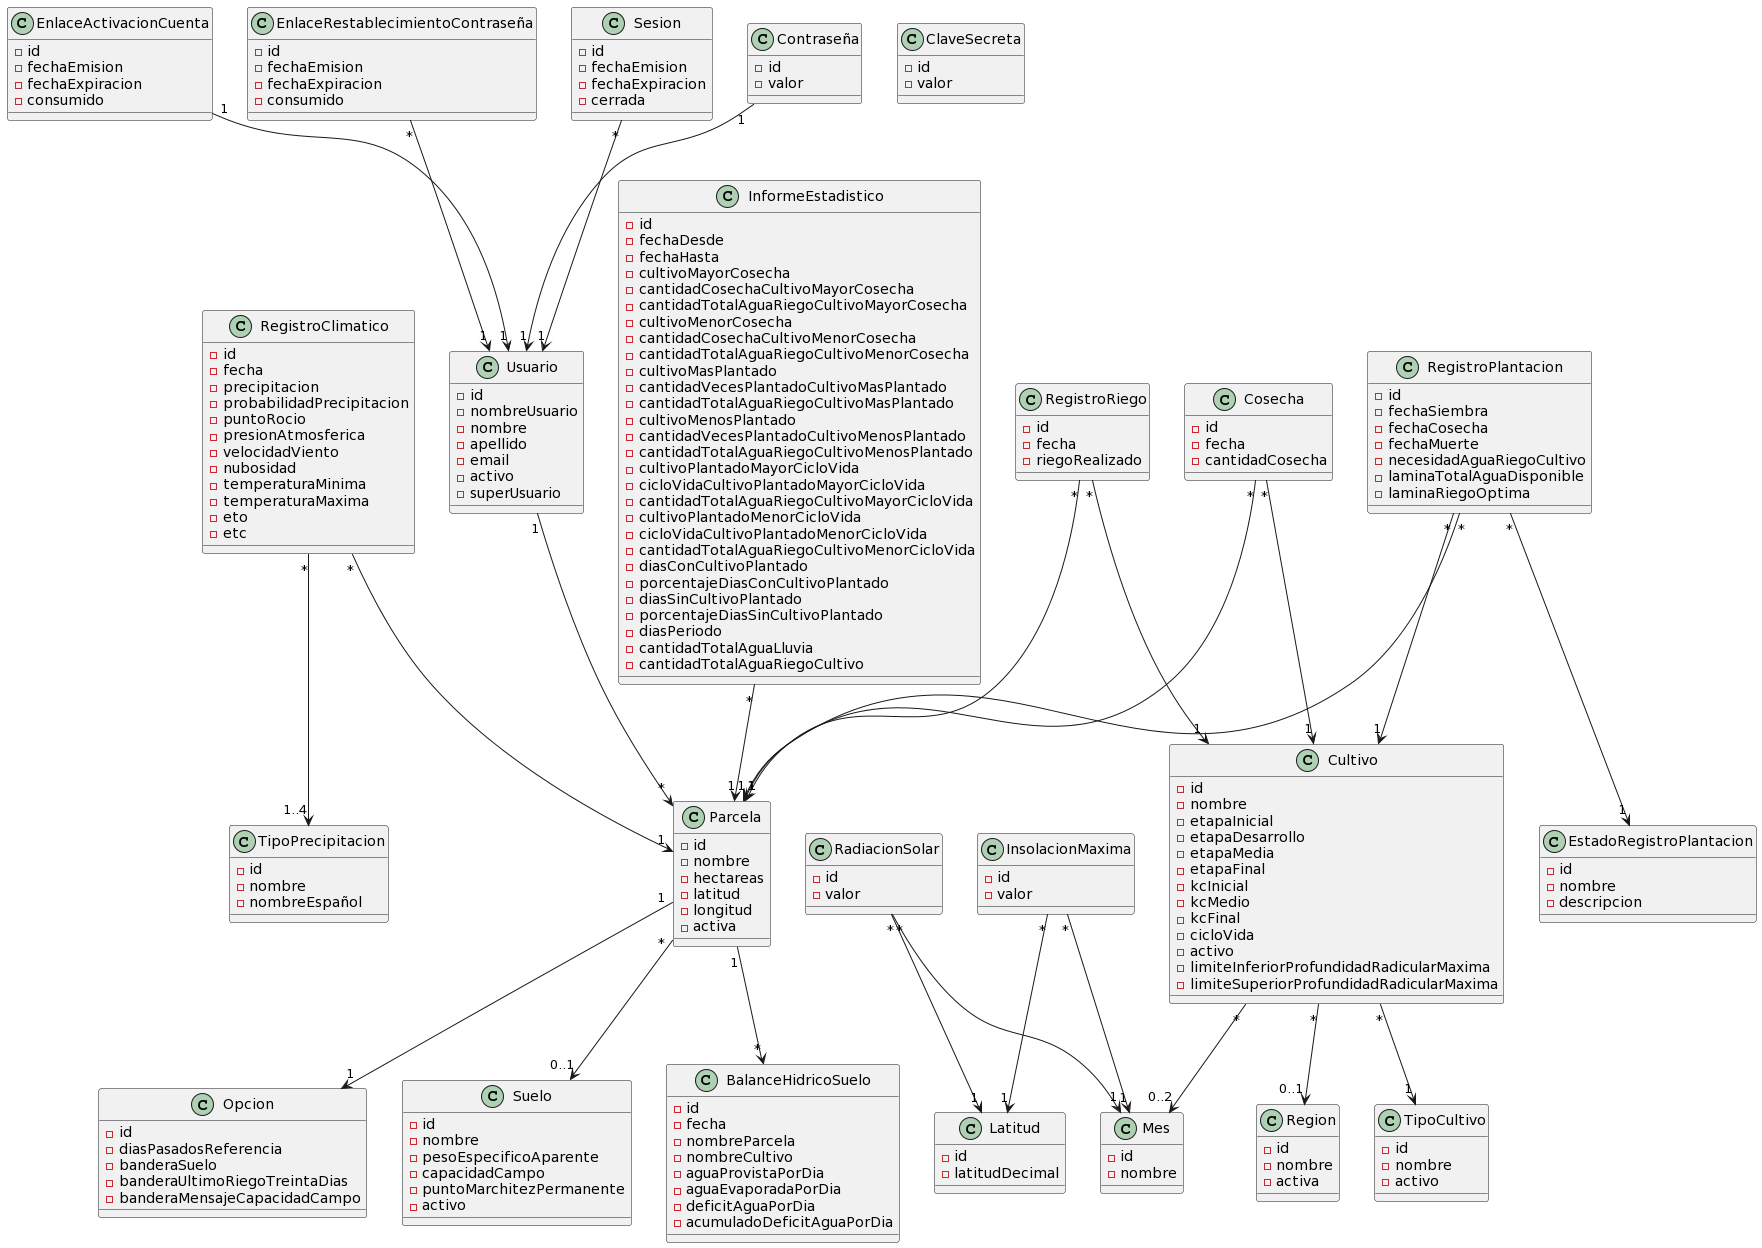
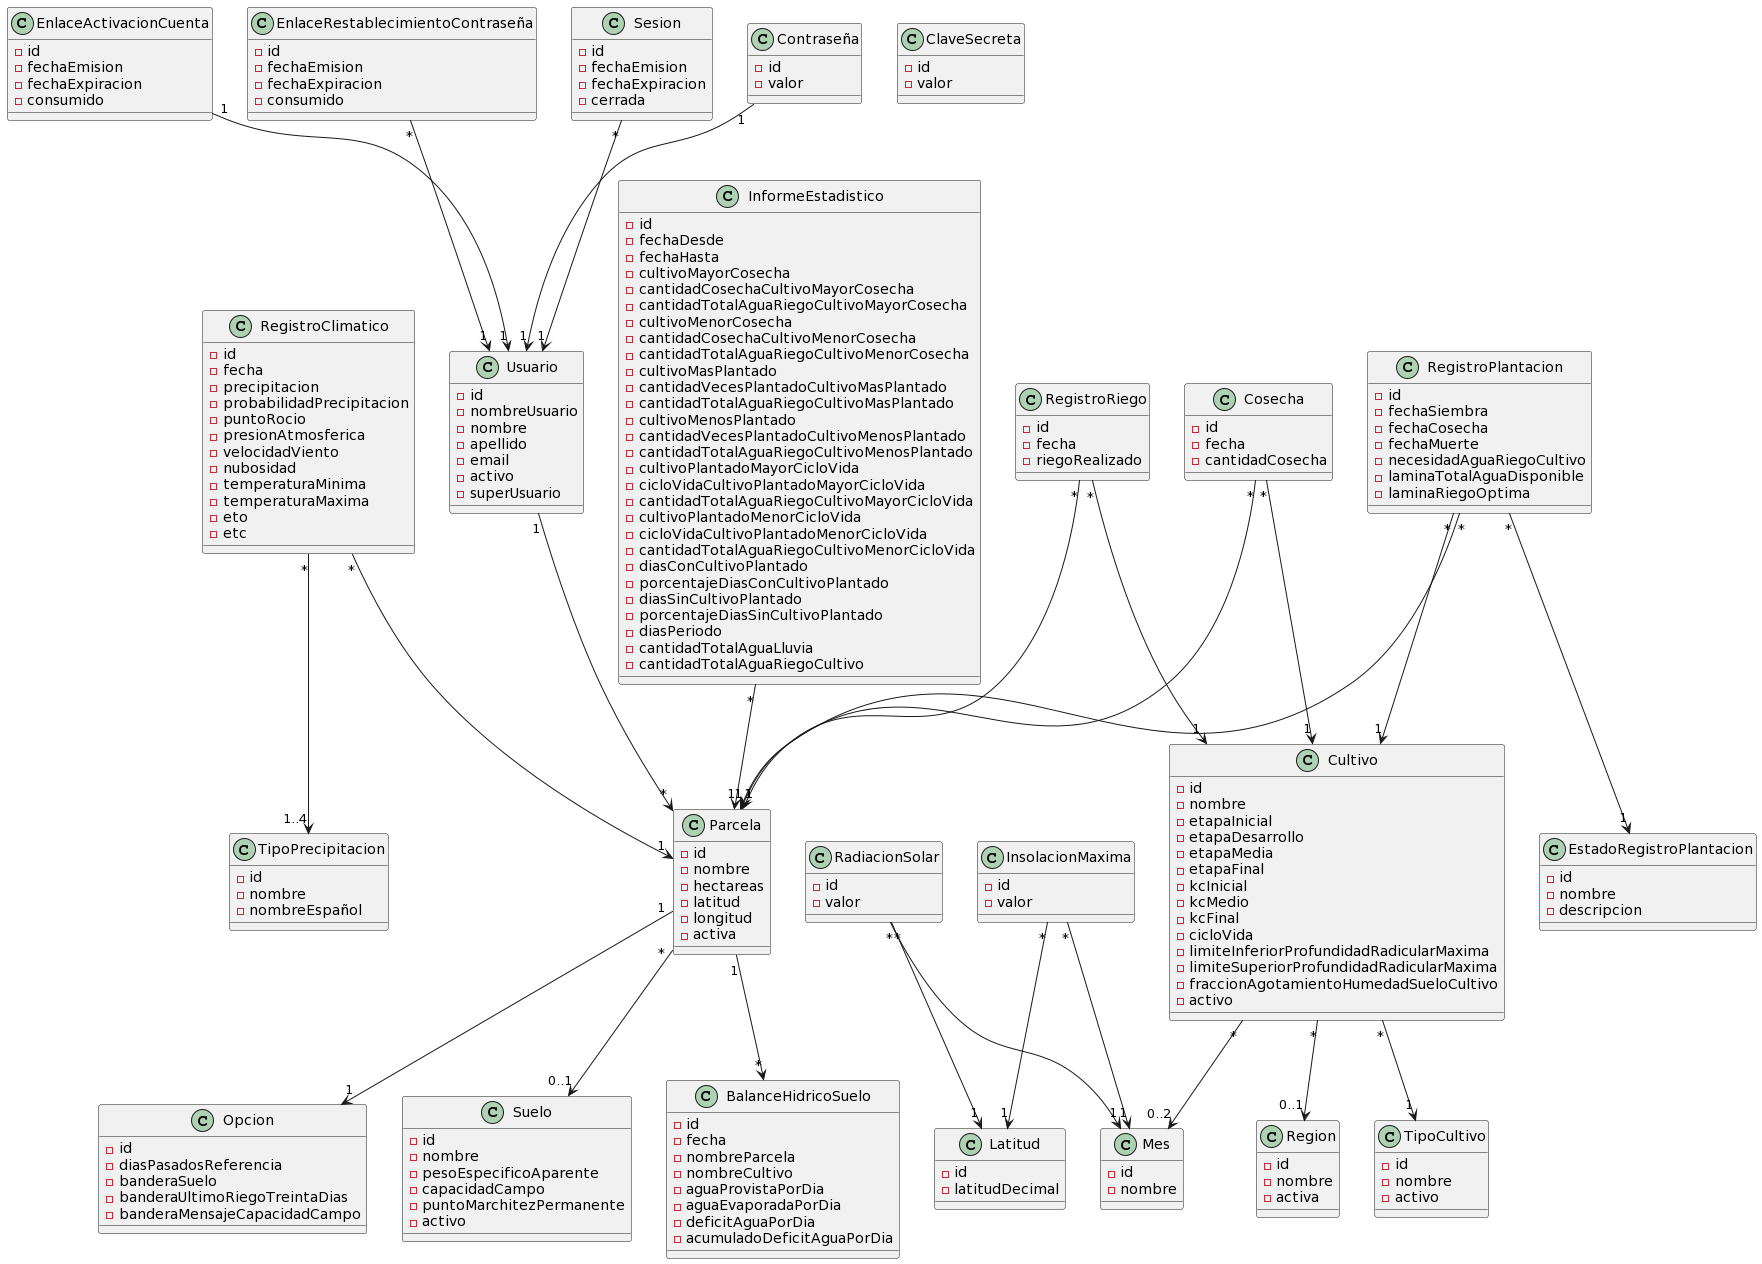
Atributo depletionFactor de la clase Crop renombrado como depletionFraction

diff --git a/app/public/controllers/admin/AdminCropCtrl.js b/app/public/controllers/admin/AdminCropCtrl.js
@@ -119,12 +119,12 @@ app.controller(
       const UNDEFINED_UPPER_LIMIT_MAXIMUM_ROOT_DEPTH_INVALID = "El límite superior de la profundidad radicular máxima debe estar definido";
       const LOWER_LIMIT_MAXIMUM_ROOT_DEPTH_INVALID = "El límite inferior de la profundidad radicular máxima debe ser mayor a 0.0";
       const UPPER_LIMIT_MAXIMUM_ROOT_DEPTH_INVALID = "El límite superior de la profundidad radicular máxima debe ser mayor a 0.0";
-      const UNDEFINED_DEPLETION_FACTOR = "El factor de agotamiento debe estar definido";
-      const INVALID_DEPLETION_FACTOR = "El factor de agotamiento debe tener un valor entre 0.1 y 0.8";
+      const UNDEFINED_DEPLETION_FRACTION = "La fracción de agotamiento de la humedad en el suelo debe estar definida";
+      const INVALID_DEPLETION_FRACTION = "La fracción de agotamiento de la humedad en el suelo para un cultivo debe tener un valor entre 0.1 y 0.8";
       const OVERLAPPING_ROOT_DEPTH_LIMITS = "El límite inferior de la profundidad radicular máxima no debe ser mayor o igual al límite superior de la profundidad radicular máxima";
 
-      const LOWER_LIMIT_DEPLETION_FACTOR = 0.1;
-      const UPPER_LIMIT_DEPLETION_FACTOR = 0.8;
+      const LOWER_LIMIT_DEPLETION_FRACTION = 0.1;
+      const UPPER_LIMIT_DEPLETION_FRACTION = 0.8;
 
       $scope.create = function () {
         // Expresion regular para validar el nombre del cultivo
@@ -379,27 +379,29 @@ app.controller(
         }
 
         /*
-        **************************************************
-        Controles sobre el valor del factor de agotamiento
-        **************************************************
+        ******************************************************
+        Controles sobre el valor de la fraccion de agotamiento
+        de la humedad en el suelo para un cultivo
+        ******************************************************
         */
 
         /*
-        Si el factor de agotamiento NO esta definido, la aplicacion
-        muestra el mensaje dado y no realiza la operacion solicitada
+        Si la fraccion de agotamiento de la humedad en el suelo para
+        un cultivo NO esta definida, la aplicacion muestra el mensaje
+        dado y no realiza la operacion solicitada
         */
-        if ($scope.data.depletionFactor == undefined) {
-          alert(UNDEFINED_DEPLETION_FACTOR);
+        if ($scope.data.depletionFraction == undefined) {
+          alert(UNDEFINED_DEPLETION_FRACTION);
           return;
         }
 
         /*
-        Si el factor de agotamiento es menor a 0.1 o mayor a 0.8,
-        la aplicacion muestra el mensaje dado y no realiza la
-        operacion solicitada
+        Si la fraccion de agotamiento de la humedad en el suelo para
+        un cultivo es menor a 0.1 o mayor a 0.8, la aplicacion muestra
+        el mensaje dado y no realiza la operacion solicitada
         */
-        if ($scope.data.depletionFactor < LOWER_LIMIT_DEPLETION_FACTOR || $scope.data.depletionFactor > UPPER_LIMIT_DEPLETION_FACTOR) {
-          alert(INVALID_DEPLETION_FACTOR);
+        if ($scope.data.depletionFraction < LOWER_LIMIT_DEPLETION_FRACTION || $scope.data.depletionFraction > UPPER_LIMIT_DEPLETION_FRACTION) {
+          alert(INVALID_DEPLETION_FRACTION);
           return;
         }
 
@@ -564,18 +566,19 @@ app.controller(
         }
 
         /*
-        **************************************************
-        Controles sobre el valor del factor de agotamiento
-        **************************************************
+        ******************************************************
+        Controles sobre el valor de la fraccion de agotamiento
+        de la humedad en el suelo para un cultivo
+        ******************************************************
         */
 
         /*
-        Si el factor de agotamiento es menor a 0.1 o mayor a 0.8,
-        la aplicacion muestra el mensaje dado y no realiza la
-        operacion solicitada
+        Si la fraccion de agotamiento de la humedad en el suelo
+        para un cultivo es menor a 0.1 o mayor a 0.8, la aplicacion
+        muestra el mensaje dado y no realiza la operacion solicitada
         */
-        if ($scope.data.depletionFactor < LOWER_LIMIT_DEPLETION_FACTOR || $scope.data.depletionFactor > UPPER_LIMIT_DEPLETION_FACTOR) {
-          alert(INVALID_DEPLETION_FACTOR);
+        if ($scope.data.depletionFraction < LOWER_LIMIT_DEPLETION_FRACTION || $scope.data.depletionFraction > UPPER_LIMIT_DEPLETION_FRACTION) {
+          alert(INVALID_DEPLETION_FRACTION);
           return;
         }
 

diff --git a/app/public/partials/admin/admin-crop-form.html b/app/public/partials/admin/admin-crop-form.html
@@ -174,10 +174,11 @@
 			</div>
 
 			<div class="form-group">
-				<label for="depletionFactor" class="col-md-2 control-label">Factor de agotamiento (p)</label>
+				<label for="depletionFraction" class="col-md-2 control-label">Fracción de agotamiento de la humedad en
+					el suelo para el cultivo (p)</label>
 				<div class="col-md-3">
-					<input step="any" type="number" class="form-control" id="depletionFactor"
-						ng-model="data.depletionFactor" ng-disabled="action == 'view'">
+					<input step="any" type="number" class="form-control" id="depletionFraction"
+						ng-model="data.depletionFraction" ng-disabled="action == 'view'">
 				</div>
 			</div>
 

diff --git a/app/public/partials/user/user-crop-form.html b/app/public/partials/user/user-crop-form.html
@@ -263,9 +263,10 @@
 			</div>
 
 			<div class="form-group">
-				<label for="depletionFactor" class="col-md-2 control-label">Factor de agotamiento (p)</label>
+				<label for="depletionFraction" class="col-md-2 control-label">Fracción de agotamiento de la humedad en
+					el suelo para el cultivo (p)</label>
 				<div class="col-md-3">
-					<input type="number" class="form-control" id="depletionFactor" ng-model="data.depletionFactor"
+					<input type="number" class="form-control" id="depletionFraction" ng-model="data.depletionFraction"
 						ng-disabled="action == 'view'">
 				</div>
 			</div>

diff --git a/app/src/servlet/CropRestServlet.java b/app/src/servlet/CropRestServlet.java
@@ -944,27 +944,28 @@ public class CropRestServlet {
     }
 
     /*
-     * **************************************************
-     * Controles sobre el valor del factor de agotamiento
-     * **************************************************
+     * ******************************************************
+     * Controles sobre el valor de la fraccipn de agotamiento
+     * de la humedad en el suelo para un cultivo
+     * ******************************************************
      */
 
     /*
-     * Si el factor de agotamiento (p) es menor al limite inferior
+     * Si la fraccion de agotamiento (p) es menor al limite inferior
      * (0.1) o mayor al limite superior (0.8), la aplicacion del
      * lado servidor retorna el mensaje HTTP 400 (Bad request)
-     * junto con el mensaje "El factor de agotamiento debe tener
-     * un valor entre 0.1 y 0.8" y no se realiza la operacion
-     * solicitada.
+     * junto con el mensaje "La fraccion de agotamiento de la
+     * humedad en el suelo para un cultivo debe tener un valor
+     * entre 0.1 y 0.8" y no se realiza la operacion solicitada.
      * 
-     * ¿De donde proviene esta limitacion del factor de agotamiento
-     * (p)? La establece el libro "Evapotranspiracion del cultivo,
-     * estudio FAO riego y drenaje 56" en el primer parrafo de la
-     * pagina 163.
+     * ¿De donde proviene esta limitacion de la fraccion de agotamiento
+     * de la humedad en el suelo para un cultivo (p)? La establece el
+     * libro "Evapotranspiracion del cultivo, estudio FAO riego y drenaje
+     * 56" en el primer parrafo de la pagina 163.
      */
-    if (newCrop.getDepletionFactor() < cropService.getLowerLimitDepletionFactor()
-        || newCrop.getDepletionFactor() > cropService.getUpperLimitDepletionFactor()) {
-      return Response.status(Response.Status.BAD_REQUEST).entity(mapper.writeValueAsString(new ErrorResponse(ReasonError.INVALID_DEPLETION_FACTOR))).build();
+    if (newCrop.getDepletionFraction() < cropService.getLowerLimitDepletionFraction()
+        || newCrop.getDepletionFraction() > cropService.getUpperLimitDepletionFraction()) {
+      return Response.status(Response.Status.BAD_REQUEST).entity(mapper.writeValueAsString(new ErrorResponse(ReasonError.INVALID_DEPLETION_FRACTION))).build();
     }
 
     /*
@@ -1439,27 +1440,28 @@ public class CropRestServlet {
     }
 
     /*
-     * **************************************************
-     * Controles sobre el valor del factor de agotamiento
-     * **************************************************
+     * ******************************************************
+     * Controles sobre el valor de la fraccipn de agotamiento
+     * de la humedad en el suelo para un cultivo
+     * ******************************************************
      */
 
     /*
-     * Si el factor de agotamiento (p) es menor al limite inferior
+     * Si la fraccion de agotamiento (p) es menor al limite inferior
      * (0.1) o mayor al limite superior (0.8), la aplicacion del
      * lado servidor retorna el mensaje HTTP 400 (Bad request)
-     * junto con el mensaje "El factor de agotamiento debe tener
-     * un valor entre 0.1 y 0.8" y no se realiza la operacion
-     * solicitada.
+     * junto con el mensaje "La fraccion de agotamiento de la
+     * humedad en el suelo para un cultivo debe tener un valor
+     * entre 0.1 y 0.8" y no se realiza la operacion solicitada.
      * 
-     * ¿De donde proviene esta limitacion del factor de agotamiento
-     * (p)? La establece el libro "Evapotranspiracion del cultivo,
-     * estudio FAO riego y drenaje 56" en el primer parrafo de la
-     * pagina 163.
+     * ¿De donde proviene esta limitacion de la fraccion de agotamiento
+     * de la humedad en el suelo para un cultivo (p)? La establece el
+     * libro "Evapotranspiracion del cultivo, estudio FAO riego y drenaje
+     * 56" en el primer parrafo de la pagina 163.
      */
-    if (modifiedCrop.getDepletionFactor() < cropService.getLowerLimitDepletionFactor()
-        || modifiedCrop.getDepletionFactor() > cropService.getUpperLimitDepletionFactor()) {
-      return Response.status(Response.Status.BAD_REQUEST).entity(mapper.writeValueAsString(new ErrorResponse(ReasonError.INVALID_DEPLETION_FACTOR))).build();
+    if (modifiedCrop.getDepletionFraction() < cropService.getLowerLimitDepletionFraction()
+        || modifiedCrop.getDepletionFraction() > cropService.getUpperLimitDepletionFraction()) {
+      return Response.status(Response.Status.BAD_REQUEST).entity(mapper.writeValueAsString(new ErrorResponse(ReasonError.INVALID_DEPLETION_FRACTION))).build();
     }
 
     /*

diff --git a/app/src/stateless/CropServiceBean.java b/app/src/stateless/CropServiceBean.java
@@ -22,20 +22,20 @@ public class CropServiceBean {
   protected EntityManager entityManager;
 
   /*
-   * ¿De donde proviene esta limitacion del factor de agotamiento
-   * (p)? La establece el libro "Evapotranspiracion del cultivo,
-   * estudio FAO riego y drenaje 56" en el primer parrafo de la
-   * pagina 163. 
+   * ¿De donde proviene esta limitacion de la fraccion de agotamiento
+   * de la humedad en el suelo para un cultivo (p)? La establece el
+   * libro "Evapotranspiracion del cultivo, estudio FAO riego y drenaje
+   * 56" en el primer parrafo de la pagina 163.
    */
-  private final double LOWER_LIMIT_DEPLETION_FACTOR = 0.1;
-  private final double UPPER_LIMIT_DEPLETION_FACTOR = 0.8;
+  private final double LOWER_LIMIT_DEPLETION_FRACTION = 0.1;
+  private final double UPPER_LIMIT_DEPLETION_FRACTION = 0.8;
 
-  public double getLowerLimitDepletionFactor() {
-    return LOWER_LIMIT_DEPLETION_FACTOR;
+  public double getLowerLimitDepletionFraction() {
+    return LOWER_LIMIT_DEPLETION_FRACTION;
   }
 
-  public double getUpperLimitDepletionFactor() {
-    return UPPER_LIMIT_DEPLETION_FACTOR;
+  public double getUpperLimitDepletionFraction() {
+    return UPPER_LIMIT_DEPLETION_FRACTION;
   }
 
   public void setEntityManager(EntityManager localEntityManager) {
@@ -123,7 +123,7 @@ public class CropServiceBean {
       givenCrop.setActive(modifiedCrop.getActive());
       givenCrop.setLowerLimitMaximumRootDepth(modifiedCrop.getLowerLimitMaximumRootDepth());
       givenCrop.setUpperLimitMaximumRootDepth(modifiedCrop.getUpperLimitMaximumRootDepth());
-      givenCrop.setDepletionFactor(modifiedCrop.getDepletionFactor());
+      givenCrop.setDepletionFraction(modifiedCrop.getDepletionFraction());
       givenCrop.setPlantingStartMonth(modifiedCrop.getPlantingStartMonth());
       givenCrop.setEndPlantingMonth(modifiedCrop.getEndPlantingMonth());
       givenCrop.setTypeCrop(modifiedCrop.getTypeCrop());

diff --git a/app/src/irrigation/WaterMath.java b/app/src/irrigation/WaterMath.java
@@ -488,7 +488,8 @@ public class WaterMath {
    * Wm = Punto de marchitez permanente [gr/gr]
    * pea = Peso especifico aparente [gr/cm3]
    * D = Profundidad radicular [m]
-   * p = Factor de agotamiento
+   * p = Fraccion agotamiento de la humedad en el suelo para un cultivo
+   * (adimensional)
    * 
    * La unidad de medida [gr/gr] representa la cantidad de gramos
    * de agua que hay cada 100 de tierra seca. Por ejemplo, un
@@ -500,10 +501,10 @@ public class WaterMath {
    * que tiene un suelo. La textura de un suelo se determina mediante
    * el triangulo textural.
    * 
-   * Un valor de 0,50 para el factor de agotamiento (depletionFactor),
-   * representado con la letra p en la formula de la lamina de riego
-   * optima (drop), es utilizado comunmente para una gran variedad
-   * de cultivos.
+   * Un valor de 0,50 para el fraccion de agotamiento de la humedad en
+   * el suelo para un cultivo (depletionFactor), representado con la
+   * letra p en la formula de la lamina de riego optima (drop), es
+   * utilizado comunmente para una gran variedad de cultivos.
    * 
    * Por ejemplo, si el resultado de aplicar dicha formula es 10 [mm]
    * significa que un suelo lleno de agua, pero no anegado (esto es
@@ -524,7 +525,7 @@ public class WaterMath {
    * de riego optima (drop) [mm].
    */
   public static double calculateOptimalIrrigationLayer(Crop crop, Soil soil) {
-    return calculateTotalAmountWaterAvailable(crop, soil) * crop.getDepletionFactor();
+    return calculateTotalAmountWaterAvailable(crop, soil) * crop.getDepletionFraction();
   }
 
   /**

diff --git a/app/src/test/WaterNeedWsTest.java b/app/src/test/WaterNeedWsTest.java
@@ -1112,7 +1112,7 @@ public class WaterNeedWsTest {
     System.out.println("Datos del cultivo de prueba");
     System.out.println("Nombre: " + testCrop.getName());
     System.out.println("Profundidad radicular [m]: " + testCrop.getLowerLimitMaximumRootDepth() + "-" + testCrop.getUpperLimitMaximumRootDepth());
-    System.out.println("Factor de agotamiento (p): " + testCrop.getDepletionFactor());
+    System.out.println("Fraccion de agotamiento de la humedad en el suelo para un cultivo (p): " + testCrop.getDepletionFactor());
   }
 
   /**
@@ -1178,11 +1178,11 @@ public class WaterNeedWsTest {
        * es igual a la presunta fecha actual, solo se imprime
        * la ETc del mismo. Esto se debe a que quiero mostrar
        * la ETc de la presunta fecha actual, con base a la cual
-       * se ajusta el factor de agotamiento (p) para calcular
-       * la lamina de riego optima (drop) de la presunta fecha
-       * actual, la cual se utiliza para calcular la necesidad
-       * de agua de riego de un cultivo en la presunta fecha
-       * actual
+       * se ajusta la fraccion de agotamiento de la humedad en
+       * el suelo para un cultivo (p) para calcular la lamina de
+       * riego optima (drop) de la presunta fecha actual, la cual
+       * se utiliza para calcular la necesidad de agua de riego
+       * de un cultivo en la presunta fecha actual
        */
       if (UtilDate.compareTo(currentClimateRecord.getDate(), presumedCurrentDate) == 0) {
         System.out.print("  |");

diff --git a/app/src/util/ReasonError.java b/app/src/util/ReasonError.java
@@ -107,7 +107,7 @@ public enum ReasonError {
   UNDEFINED_MONTH_NAME("El nombre del mes debe estar definido"),
   LOWER_LIMIT_MAXIMUM_ROOT_DEPTH_INVALID("El límite inferior de la profundidad radicular máxima debe ser mayor a 0.0"),
   UPPER_LIMIT_MAXIMUM_ROOT_DEPTH_INVALID("El límite superior de la profundidad radicular máxima debe ser mayor a 0.0"),
-  INVALID_DEPLETION_FACTOR("El factor de agotamiento debe tener un valor entre 0.1 y 0.8"),
+  INVALID_DEPLETION_FRACTION("La fracción de agotamiento de la humedad en el suelo para un cultivo debe tener un valor entre 0.1 y 0.8"),
   UNDEFINED_SOIL("Para calcular la necesidad de agua de riego de un cultivo en la fecha actual (es decir, hoy) con datos de suelo es necesario asignar un suelo a la parcela"),
   OVERLAPPING_ROOT_DEPTH_LIMITS("El límite inferior de la profundidad radicular máxima no debe ser mayor o igual al límite superior de la profundidad radicular máxima"),
   MONTH_START_PLANTING_NON_EXISTENT("El mes de inicio de siembra elegido no existe"),

diff --git a/app/src/model/Crop.java b/app/src/model/Crop.java
@@ -52,8 +52,8 @@ public class Crop {
   @Column(name = "UPPER_LIMIT_MAXIMUM_ROOT_DEPTH", nullable = false)
   private double upperLimitMaximumRootDepth;
 
-  @Column(name = "DEPLETION_FACTOR", nullable = false)
-  private double depletionFactor;
+  @Column(name = "DEPLETION_FRACTION", nullable = false)
+  private double depletionFraction;
 
   @Column(name = "ACTIVE", nullable = false)
   private boolean active;
@@ -170,12 +170,12 @@ public class Crop {
     this.upperLimitMaximumRootDepth = upperLimitMaximumRootDepth;
   }
 
-  public double getDepletionFactor() {
-    return depletionFactor;
+  public double getDepletionFraction() {
+    return depletionFraction;
   }
 
-  public void setDepletionFactor(double depletionFactor) {
-    this.depletionFactor = depletionFactor;
+  public void setDepletionFraction(double depletionFraction) {
+    this.depletionFraction = depletionFraction;
   }
 
   public boolean getActive() {
